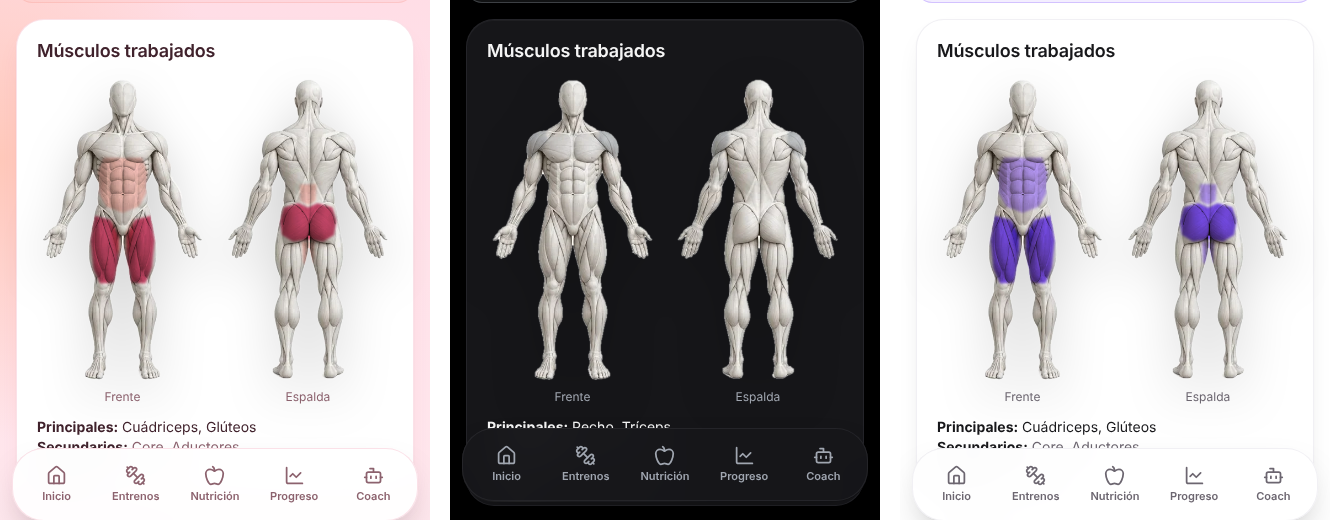
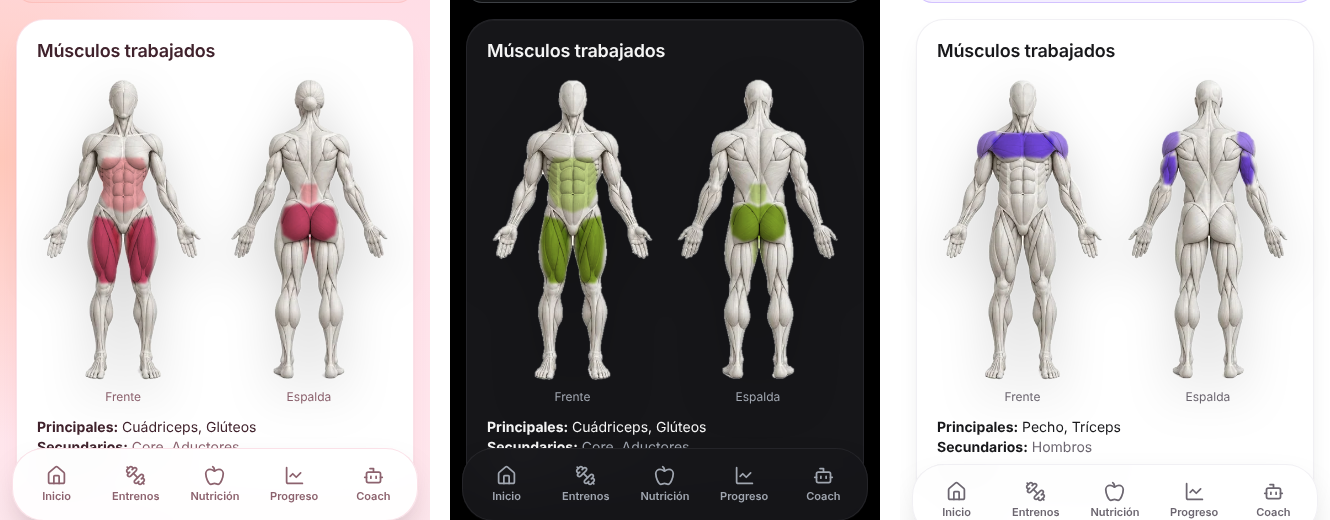
Mapa muscular 3D: cuerpo de mujer para Gym Sis
- Render femenino con la misma pose, estilo y encuadre, base sin fondo y 12 máscaras.
- Gym Sis usa el cuerpo de mujer; Gym Bro y Neutro, el de hombre.
- El script de recursos admite el tipo de cuerpo y sus propios rellenos de silueta.

Claude-Session: https://claude.ai/code/session_012yeDezm9F66kqGiP5YEvhz

diff --git a/src/components/MuscleMap.tsx b/src/components/MuscleMap.tsx
@@ -13,12 +13,12 @@ type Masked = (typeof MASKED)[number];
 const FULL_BODY: Masked[] = ["chest", "back", "shoulders", "core", "glutes", "quads", "hamstrings"];
 
 /** Cuerpos con imágenes disponibles; si falta uno, se usa el de hombre. */
-const AVAILABLE: Record<MuscleBody, boolean> = { male: true, female: false };
+const AVAILABLE: Record<MuscleBody, boolean> = { male: true, female: true };
 
 /** Proporción de la imagen y posición horizontal (en %) del centro de cada vista. */
 const LAYOUT: Record<MuscleBody, { ratio: string; front: number; back: number }> = {
   male: { ratio: "645 / 562", front: 24, back: 76.1 },
-  female: { ratio: "645 / 562", front: 24, back: 76.1 },
+  female: { ratio: "644 / 562", front: 24.2, back: 76.4 },
 };
 
 const isMasked = (m: MuscleGroup): m is Masked => (MASKED as readonly string[]).includes(m);

diff --git a/scripts/build-muscle-map.py b/scripts/build-muscle-map.py
@@ -1,5 +1,5 @@
 # Genera los recursos del mapa muscular 3D (public/muscles/<cuerpo>/).
-# Uso: python3 -I scripts/build-muscle-map.py <render.jpg> <carpeta_salida>
+# Uso: python3 -I scripts/build-muscle-map.py <render.jpg> <carpeta_salida> <male|female>
 # Entrada: render con la vista frontal a la izquierda y la posterior a la derecha, fondo blanco.
 # Salida: body.webp (fondo transparente) y una máscara por grupo muscular, todas con el mismo recorte.
 # Las coordenadas de REG y FIX corresponden al render de 1024 x 576 usado para cada cuerpo.
@@ -9,7 +9,12 @@ from PIL import Image, ImageDraw, ImageFilter
 from collections import deque
 
 src, out = sys.argv[1], sys.argv[2]
-FIX = [(677, 700, 800, 80, 165), (341, 342, 380, 0, 45), (677, 678, 716, 0, 45), (341, 425, 460, 185, 225)]
+KIND = sys.argv[3] if len(sys.argv) > 3 else "male"
+# Zonas con brillos tan blancos como el fondo que se rellenan con la silueta en espejo (centro, x0, x1, y0, y1).
+FIX = {
+    "male": [(677, 700, 800, 80, 165), (341, 342, 380, 0, 45), (677, 678, 716, 0, 45), (341, 425, 460, 185, 225)],
+    "female": [(677, 688, 742, 80, 140)],
+}[KIND]
 im = Image.open(src).convert("RGB")
 W, H = im.size
 a = np.asarray(im).astype(np.int16)
